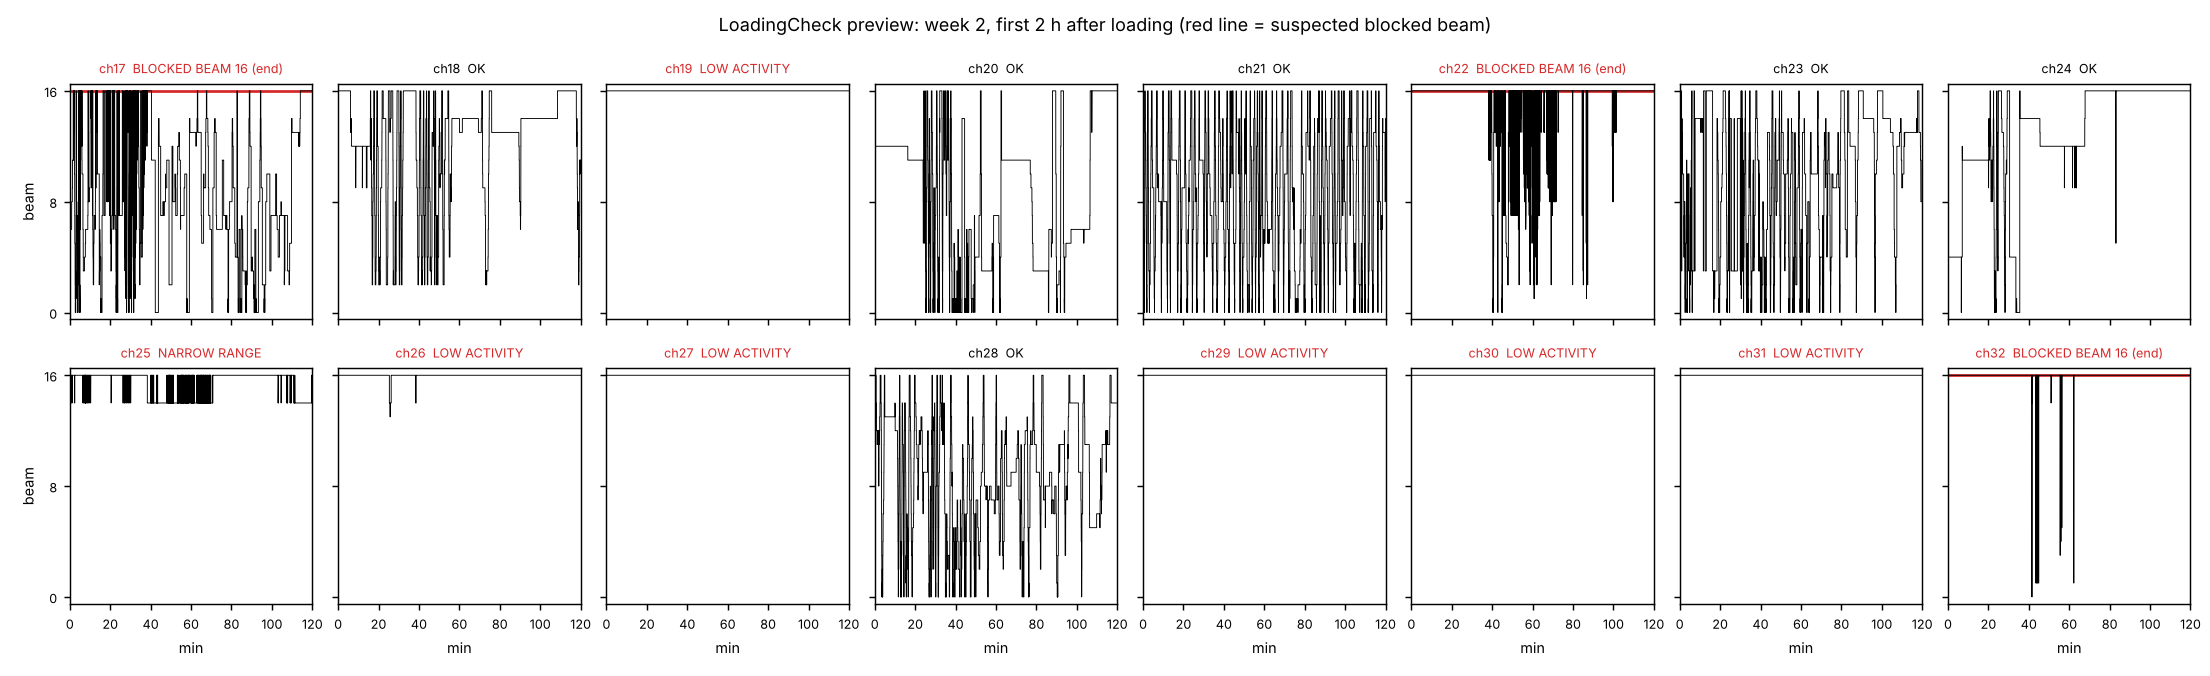
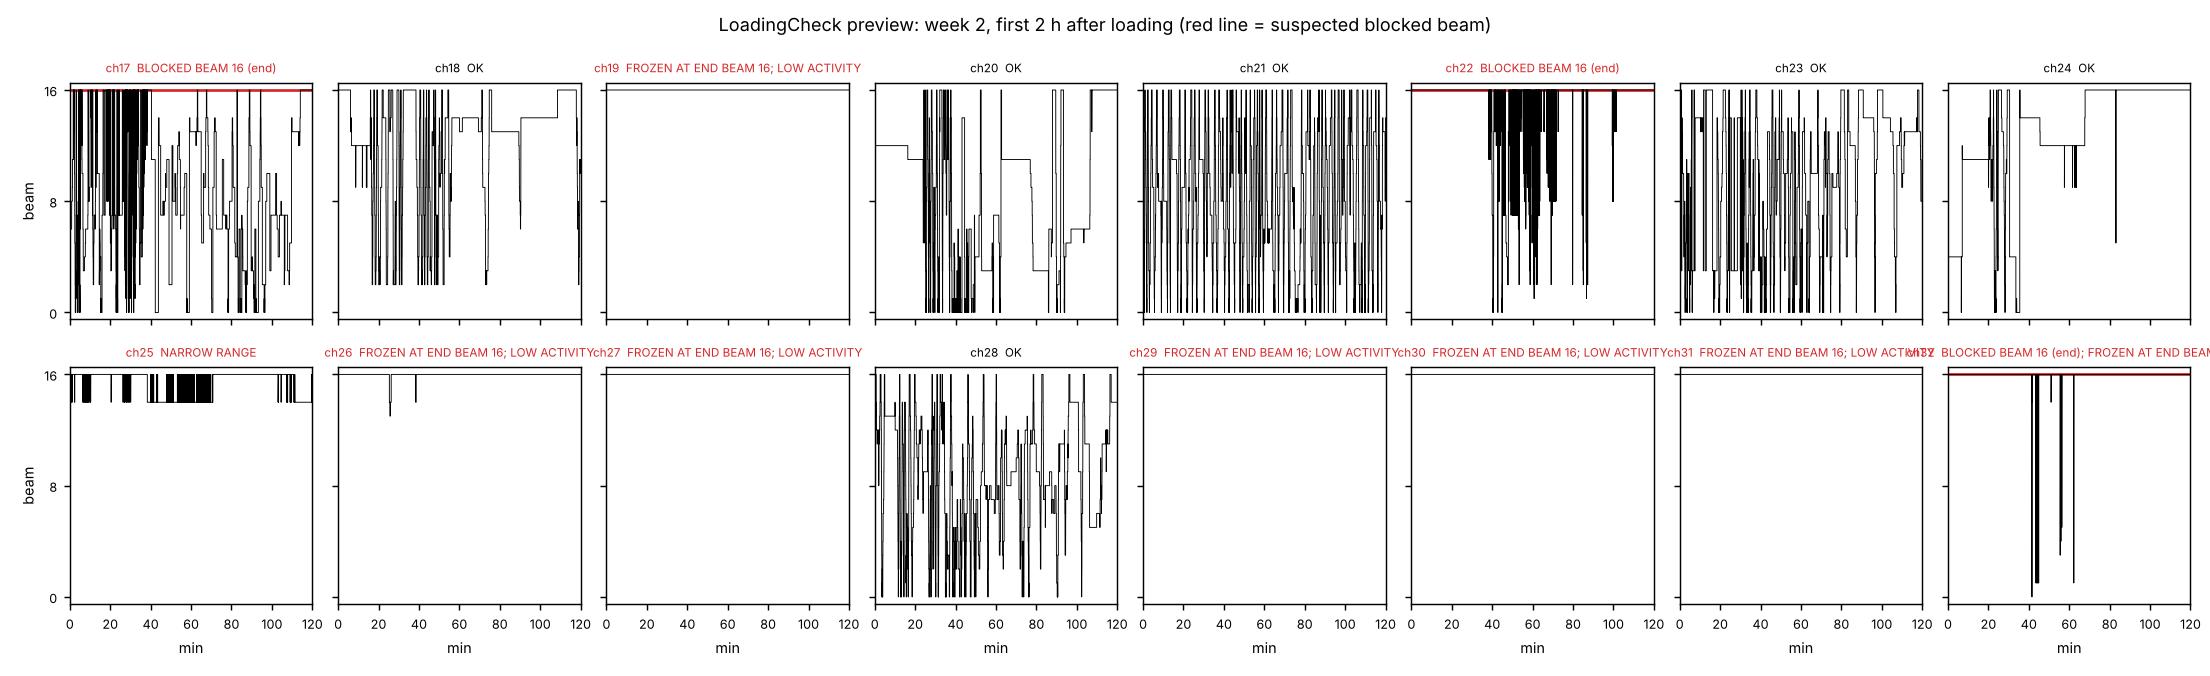
beam_hmm: LoadingCheck FROZEN flag - catches all 14 live flies hidden behind a blocked beam 16
Claude-Session: https://claude.ai/code/session_01LXkmscTrAhyo5Ew2XQ9AMW

diff --git a/beam_hmm/matlab/LoadingCheck.m b/beam_hmm/matlab/LoadingCheck.m
@@ -14,6 +14,10 @@ function R = LoadingCheck(filePath, varargin)
 %                       0.4 s. An END beam (1, 2, 15, 16) points to food or the plug; mid-tube to debris,
 %                       a droplet or a mark on the tube.
 %     NARROW RANGE      the fly moves (>= 50 position changes) but spans < 8 beams: part of the tube obstructed.
+%     FROZEN AT END BEAM k  one value in >= 99% of readings, at beam 1, 2, 15 or 16: the fly may be HIDDEN behind a
+%                       blocked end beam (food or plug), or dead. In the 2026 pilot, 14 fly-weeks read a constant 16
+%                       for the whole week while the fly was alive (active again later): re-seat these first.
+%                       FROZEN AT BEAM k (mid-tube) and FROZEN AT 0 (no beam broken; dead flies often read 0) likewise.
 %     LOW ACTIVITY      < 20 position changes: a dead or stuck fly, or a blocked tube.
 %   A fly resting on one beam is NOT flagged by "reads one beam a lot"; only the jump signature counts.
 %   These are the beam_hmm hub criteria (PRESPEC P1-C) with a minimum jump count for short recordings.
@@ -62,6 +66,12 @@ for k = 1:nC
         end
     end
     if nchg(k) >= 50 && span(k) < 8, f{end + 1} = 'NARROW RANGE'; end
+    [vals, ~, jj] = unique(x); cnts = accumarray(jj, 1); [mxc, imc] = max(cnts); fv = vals(imc);
+    if mxc / numel(x) >= 0.99
+        if fv == 0, f{end + 1} = 'FROZEN AT 0 (no beam broken)';
+        elseif any(fv == [1 2 15 16]), f{end + 1} = sprintf('FROZEN AT END BEAM %d', fv);
+        else, f{end + 1} = sprintf('FROZEN AT BEAM %d', fv); end
+    end
     if nchg(k) < 20, f{end + 1} = 'LOW ACTIVITY'; end
     flags{k} = strjoin(f, '; ');
 end

diff --git a/beam_hmm/labconv.py b/beam_hmm/labconv.py
@@ -93,5 +93,9 @@ def loading_check(x, t, hours=2.0):
     if len(big) >= 10 and share >= 0.30 and ret >= 0.20:
         flags.append(f"BLOCKED BEAM {hub} ({'end' if hub in (1, 2, 15, 16) else 'mid-tube'})")
     if nchg >= 50 and span < 8: flags.append('NARROW RANGE')
+    if len(x):
+        vals, cnts = np.unique(x, return_counts=True); fv = int(vals[np.argmax(cnts)]); fs = cnts.max() / len(x)
+        if fs >= 0.99:
+            flags.append(f"FROZEN AT {'END BEAM' if fv in (1, 2, 15, 16) else 'BEAM'} {fv}" if fv != 0 else 'FROZEN AT 0 (no beam broken)')
     if nchg < 20: flags.append('LOW ACTIVITY')
     return dict(changes=nchg, big_jumps=int(len(big)), hub=hub, hub_share=share, hub_returns=ret, span=span, flags=flags)

diff --git a/beam_hmm/RESULTS_LEDGER.md b/beam_hmm/RESULTS_LEDGER.md
@@ -328,3 +328,12 @@ In weeks 8-9 nearly every channel is LOW ACTIVITY: the flies are dead, as the su
     in Octave (it counts CRLF line ends twice). Fixed (budget doubled; the time window still trims to 2 h); rerun on
     true 2-h excerpts of weeks 1-4: identical flags, 0 short-file warnings. The validation against the full-week QC
     (18 / 1 / 20 / 105) used the full data and is unaffected.
+
+## 2026-11-14 — Live flies hidden behind a blocked beam 16; LoadingCheck FROZEN flag
+Channel-weeks with one value in >= 99% of readings (weeks 1-9, ch17-32): 44 -- value 16 in 25, value 0 in 17 (dead flies,
+e.g. all of week 9), 2 and 6 once each. In 14 of them the reading was a constant 16 for the WHOLE week while the fly
+was alive (active again in a later week): wk1 ch30; wk2 ch19, 27, 29, 30, 31, 32; ch27 in weeks 3-8; ch32 wk5. A blocked
+beam 16 (plug or food, the user's hypothesis) can hide a living fly completely: ~1 in 10 fly-weeks of the pilot.
+These are the "whole-week outages" of A5; P1-F already treats them as outages, not deaths.
+LoadingCheck/labconv.loading_check gain FROZEN AT END BEAM k / FROZEN AT BEAM k / FROZEN AT 0. In the first 2 h it
+flags all 14 of 14 hidden-alive fly-weeks as FROZEN AT END BEAM 16. Octave and Python flags identical on 2-h excerpts.
